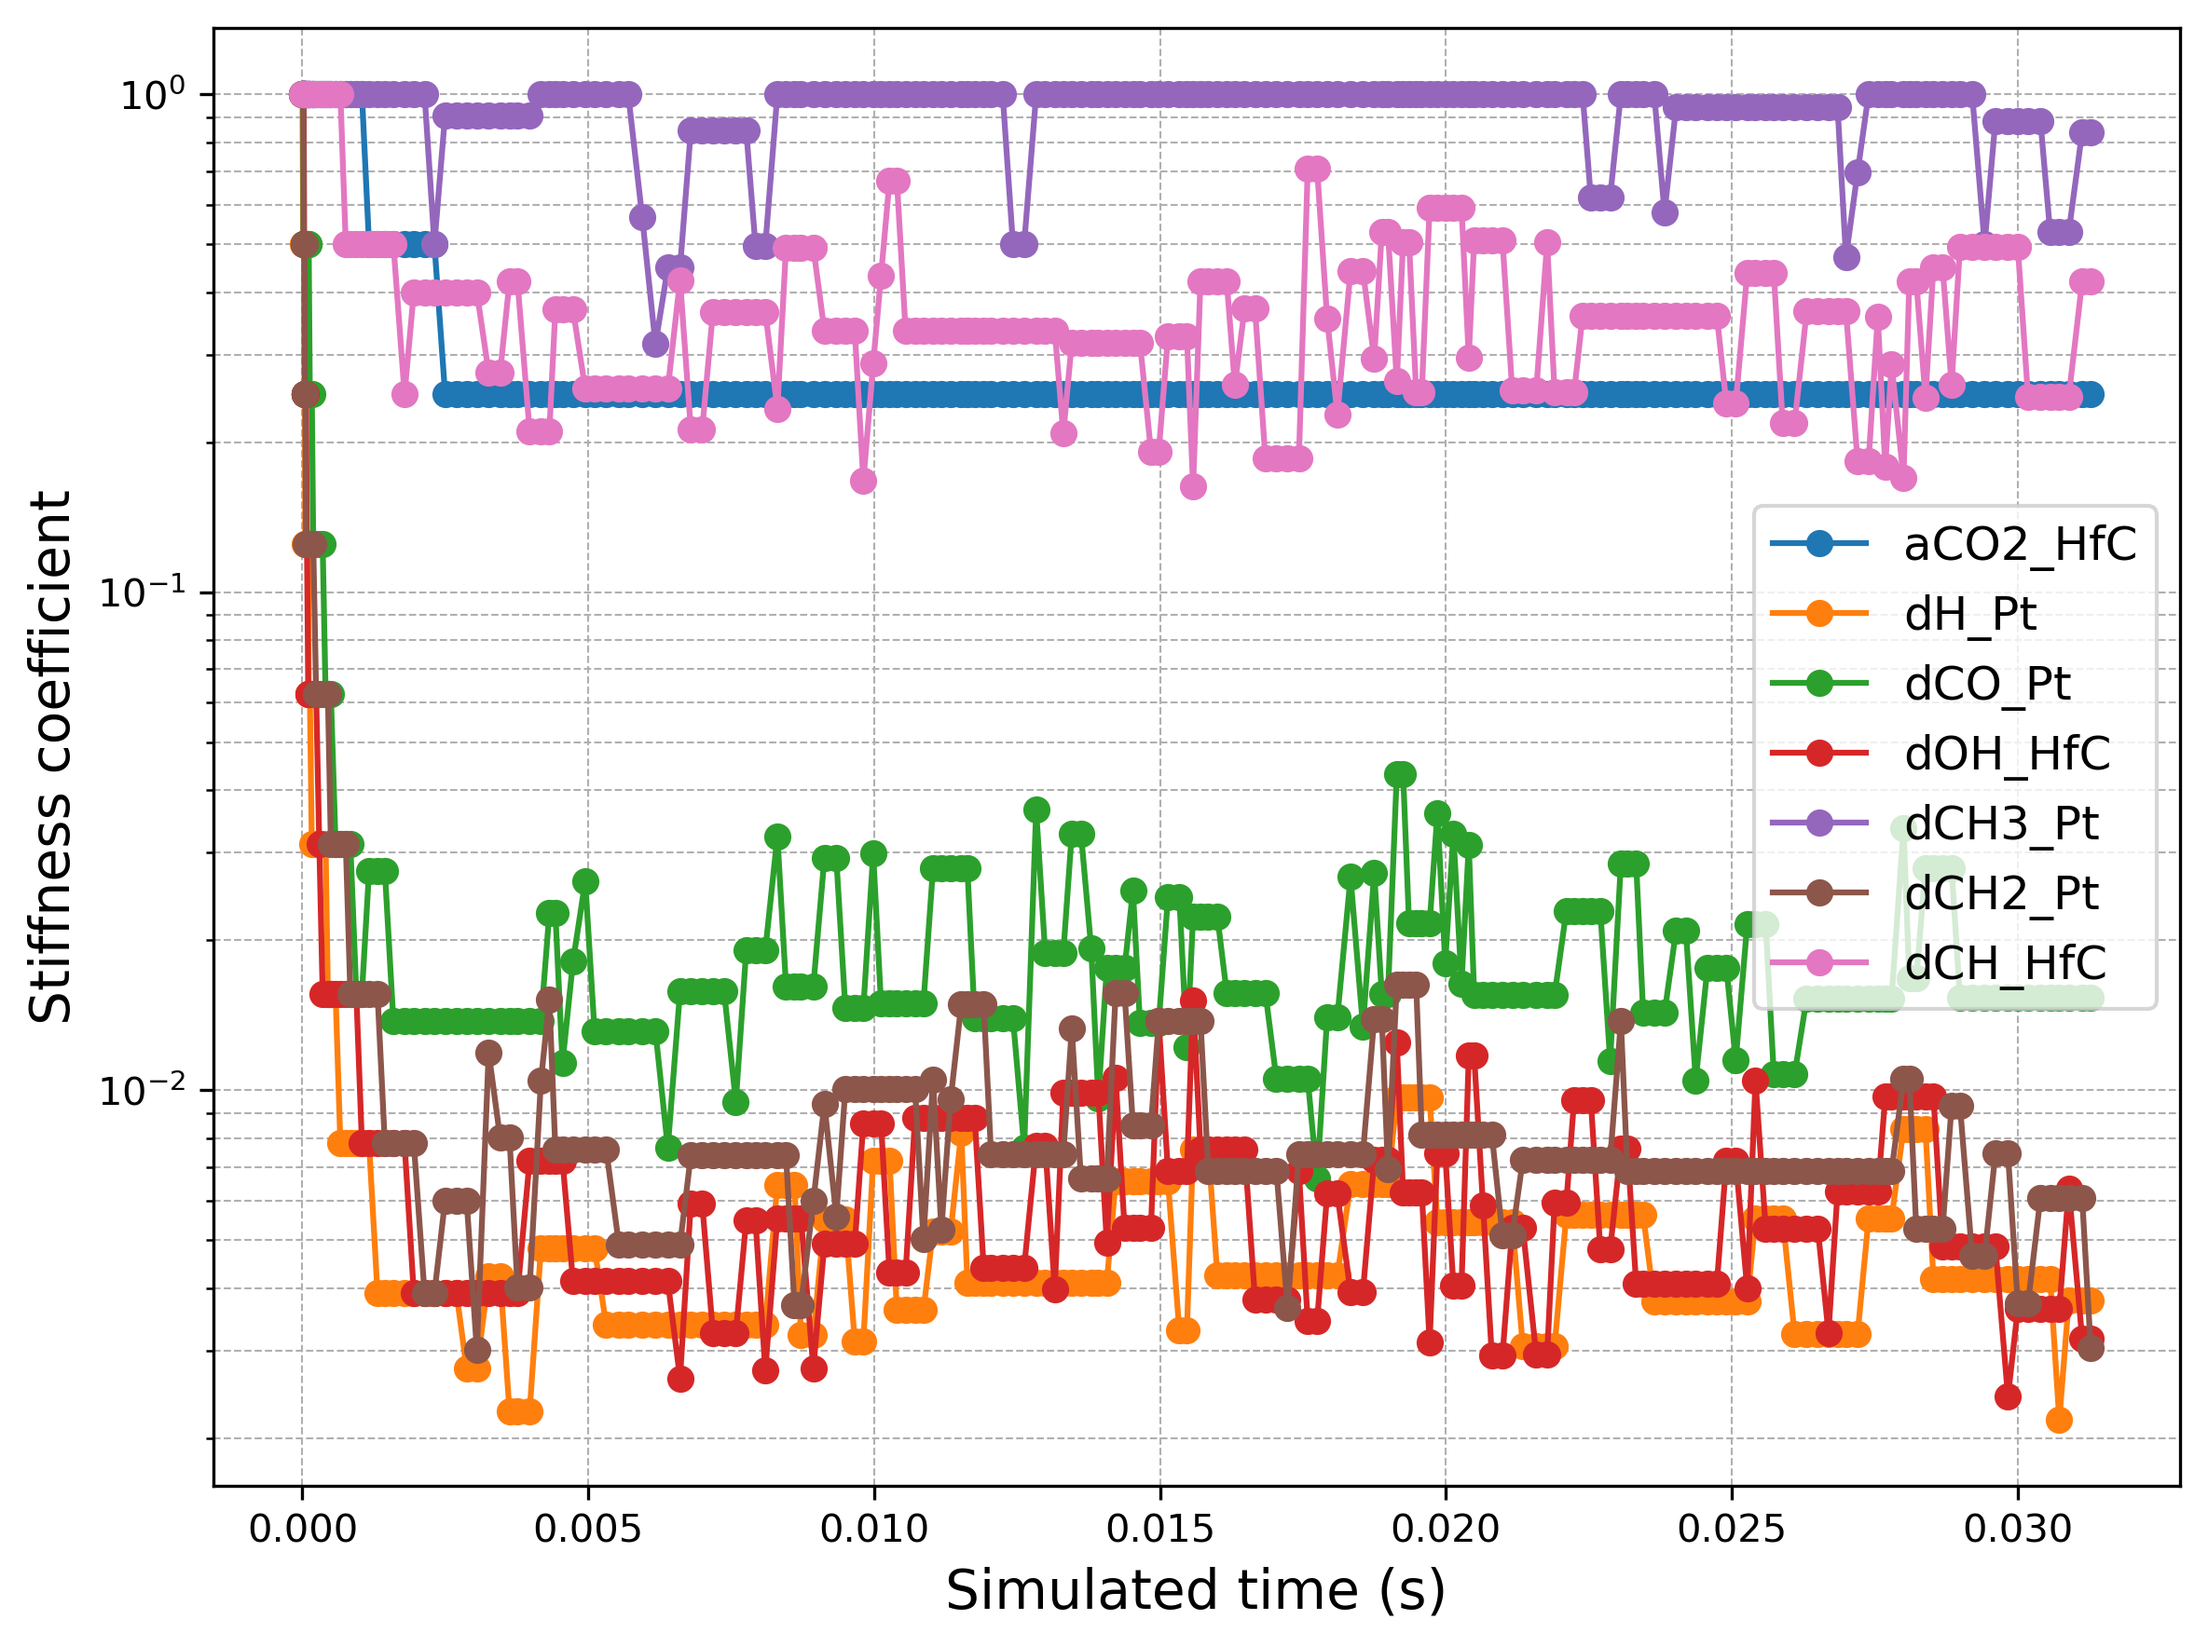
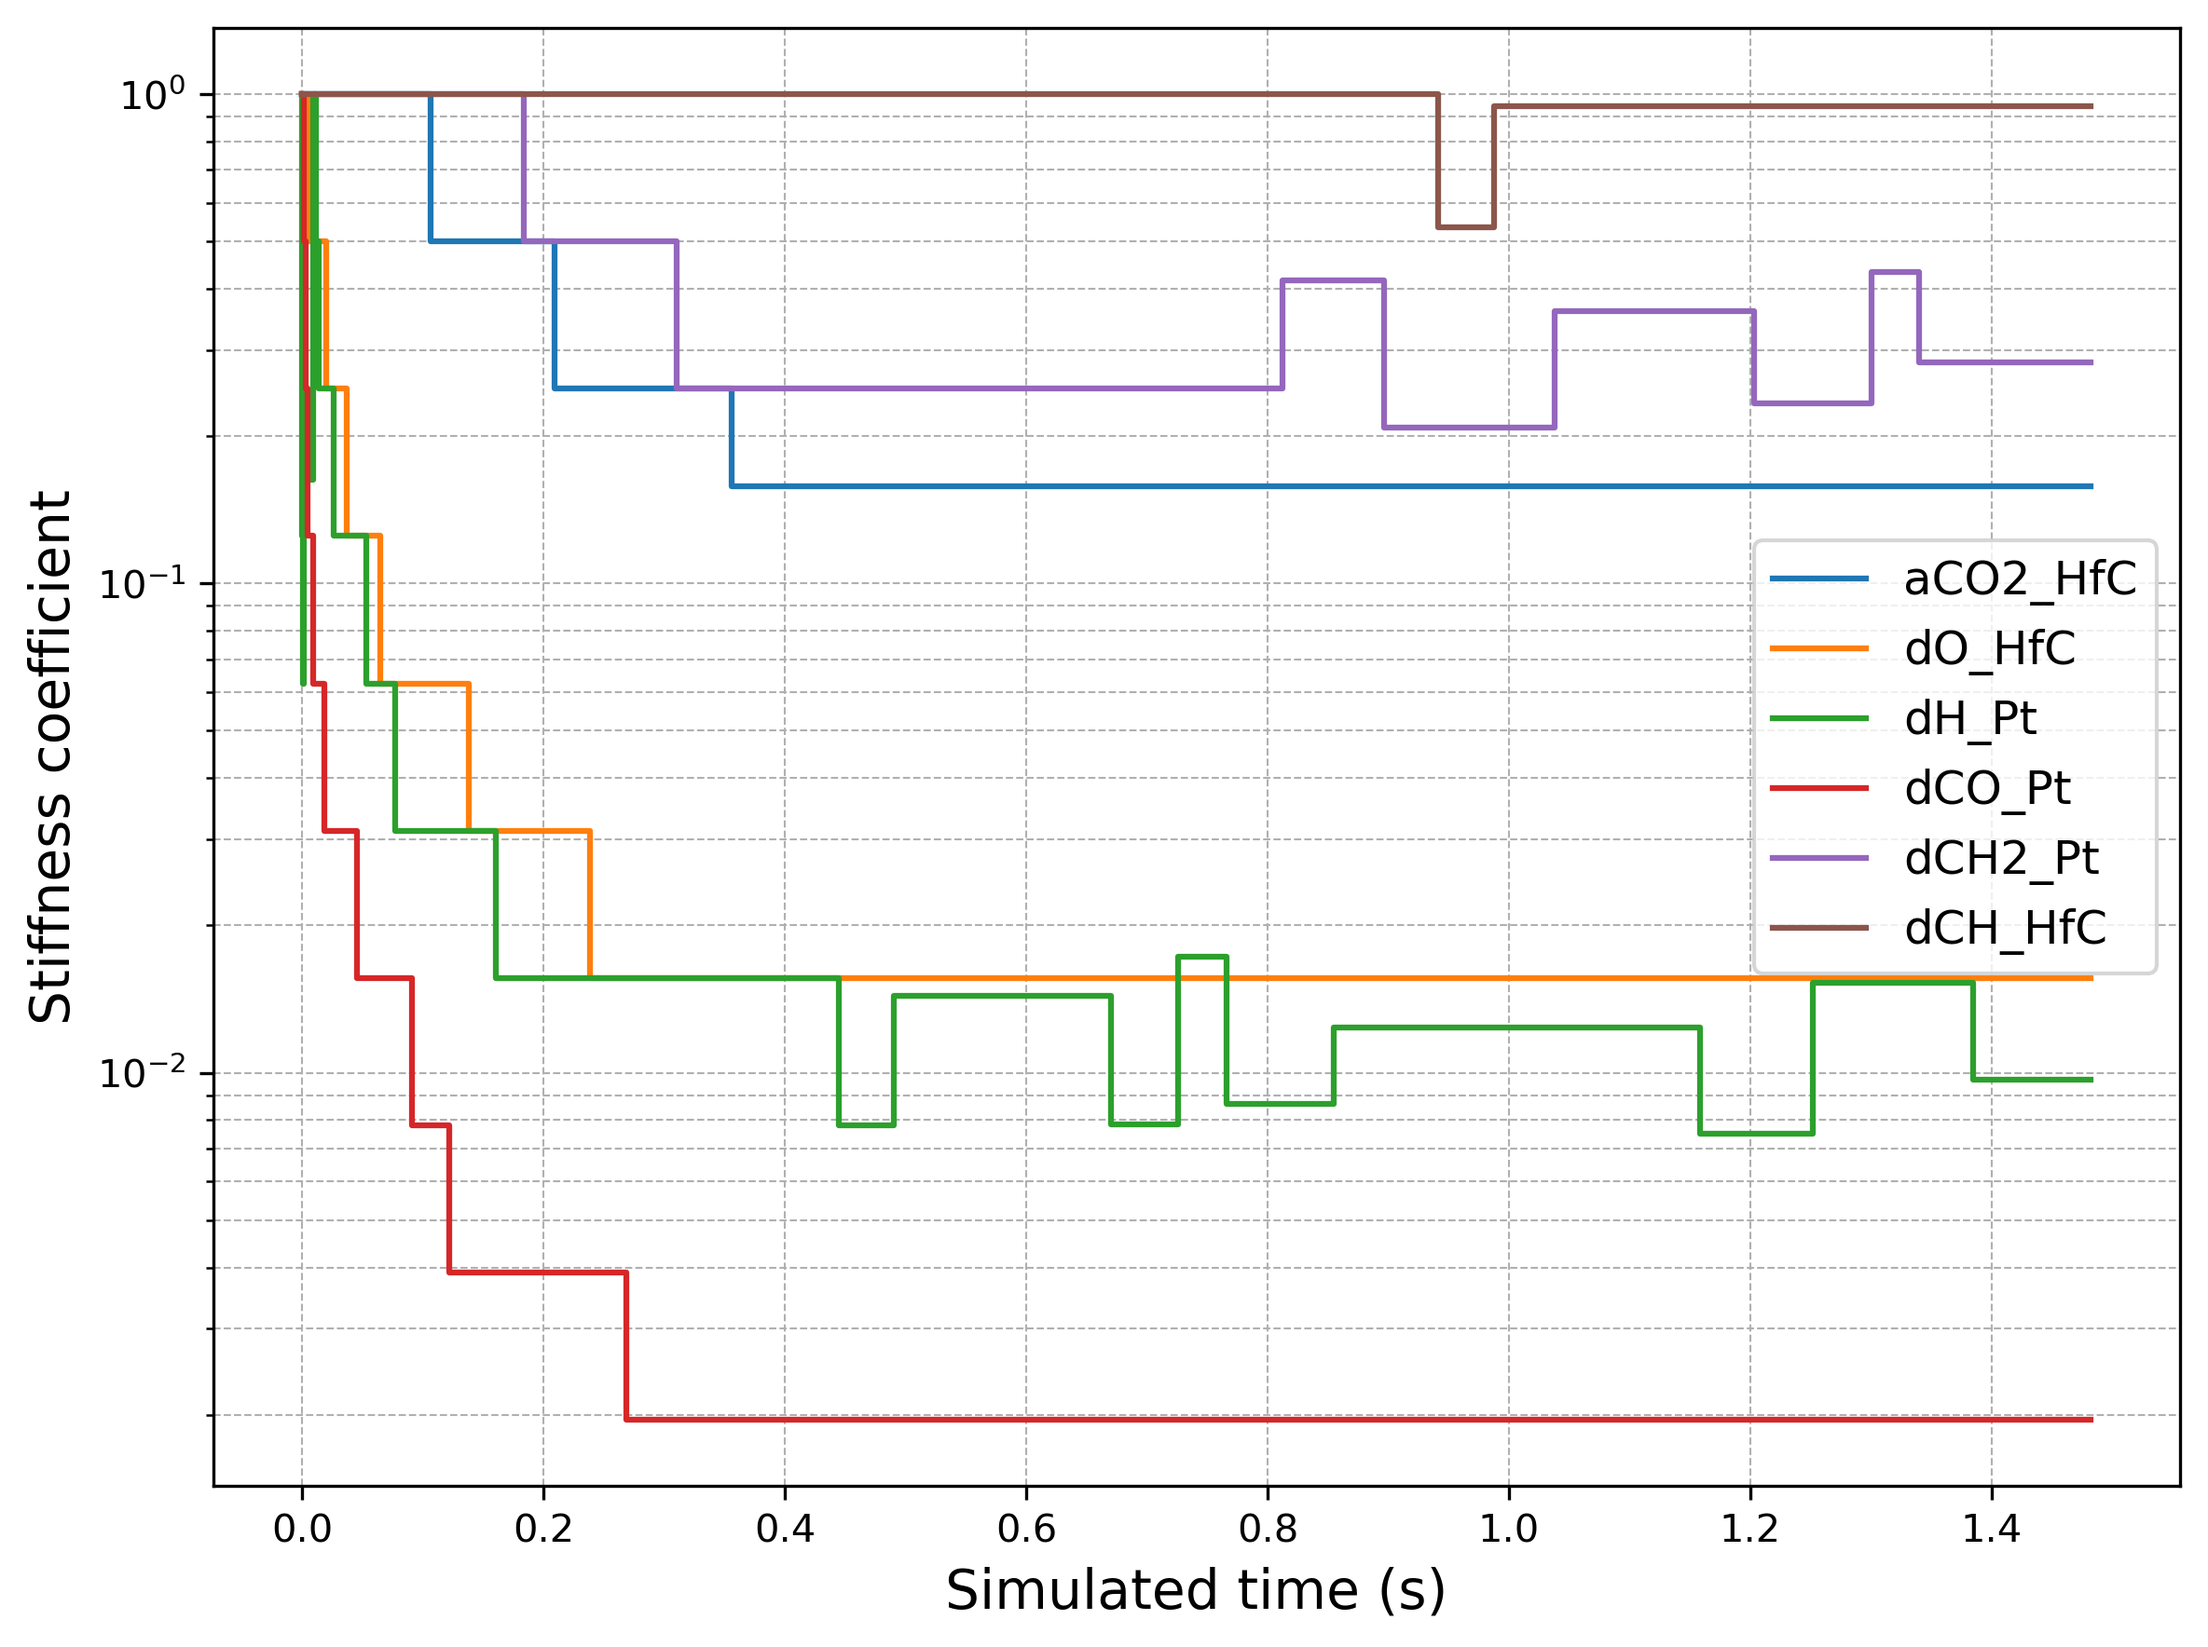
Added example on plotting stiffness coefficients.

diff --git a/examples/DRM_on_PtHfC/stiffness_coefficients.py b/examples/DRM_on_PtHfC/stiffness_coefficients.py
@@ -3,7 +3,7 @@ import matplotlib.pyplot as plt
 from zacrostools.kmc_output import parse_general_output_file
 
 data = parse_general_output_file(
-    output_file="simulation_results/CH4_3.728e-01#CO2_4.394e-01/general_output.txt",
+    output_file="simulation_results/CH4_5.179e-04#CO2_6.105e-04/general_output.txt",
     parse_stiffness_coefficients=True)
 
 stiffness_df = data['stiffness_scaling_coefficients']
@@ -14,12 +14,11 @@ filtered_steps = [col for col in step_columns if not np.all(np.isclose(stiffness
 
 plt.figure(figsize=(8, 6))
 for step in filtered_steps:
-    plt.plot(
+    plt.step(
         stiffness_df['time'],
         stiffness_df[step],
+        where='post',
         label=step,
-        marker='o',
-        linestyle='-',
         linewidth=1.5
     )
 

diff --git a/docs/source/plotting_results.md b/docs/source/plotting_results.md
@@ -72,6 +72,8 @@ plt.show()
 
 <div style="text-align: center;"> <img src="https://github.com/hprats/ZacrosTools/blob/main/examples/DRM_on_PtHfC/coverage_per_sitetype.png?raw=true" alt="Coverage per site type" width="700"/> </div>
 
+---
+
 ### Plotting the number of molecules produced
 
 This example demonstrates how to plot the number of molecules produced over time for different gas-phase species in a single KMC simulation.
@@ -101,6 +103,54 @@ plt.show()
 ```
 
 <div style="text-align: center;"> <img src="https://github.com/hprats/ZacrosTools/blob/main/examples/DRM_on_PtHfC/molecules_produced.png?raw=true" alt="Molecules produced" width="500"/> </div>
+
+---
+
+## Plotting stiffness scaling coefficients
+
+In simulations where stiffness scaling is employed, it's often useful to visualize how the stiffness coefficients evolve over time. Stiffness coefficients may remain constant for a while and then abruptly change at specific times. Using a step plot makes it easy to highlight these jumps:
+
+```python
+import numpy as np
+import matplotlib.pyplot as plt
+from zacrostools.kmc_output import parse_general_output_file
+
+data = parse_general_output_file(
+    output_file="simulation_results/CH4_5.179e-04#CO2_6.105e-04/general_output.txt",
+    parse_stiffness_coefficients=True)
+
+stiffness_df = data['stiffness_scaling_coefficients']
+
+# Identify columns corresponding to stiffness steps
+step_columns = [col for col in stiffness_df.columns if col not in ['time', 'nevents']]
+
+# Filter out steps where all coefficients are 1.0 (no change)
+filtered_steps = [col for col in step_columns if not np.all(np.isclose(stiffness_df[col], 1.0))]
+
+plt.figure(figsize=(8, 6))
+for step in filtered_steps:
+    plt.step(
+        stiffness_df['time'],
+        stiffness_df[step],
+        where='post',
+        label=step,
+        linewidth=1.5
+    )
+
+plt.yscale('log')
+plt.xlabel('Simulated time (s)', fontsize=14)
+plt.ylabel('Stiffness coefficient', fontsize=14)
+plt.legend(fontsize=12, title_fontsize=12)
+plt.grid(True, which="both", ls="--", linewidth=0.5)
+
+plt.tight_layout()
+plt.savefig('stiffness_coefficients.png', dpi=300, bbox_inches='tight', transparent=False)
+plt.show()
+```
+
+The `parse_general_output_file` function extracts stiffness scaling coefficients from the general output file of a simulation. After filtering out steps that do not change (remain at a factor of 1.0), the code creates a step plot showing how the coefficients evolve over time. 
+
+<div style="text-align: center;"> <img src="https://github.com/hprats/ZacrosTools/blob/main/examples/DRM_on_PtHfC/stiffness_coefficients.png?raw=true" alt="Stiffness coefficients" width="600"/> </div>
 
 ---
 
